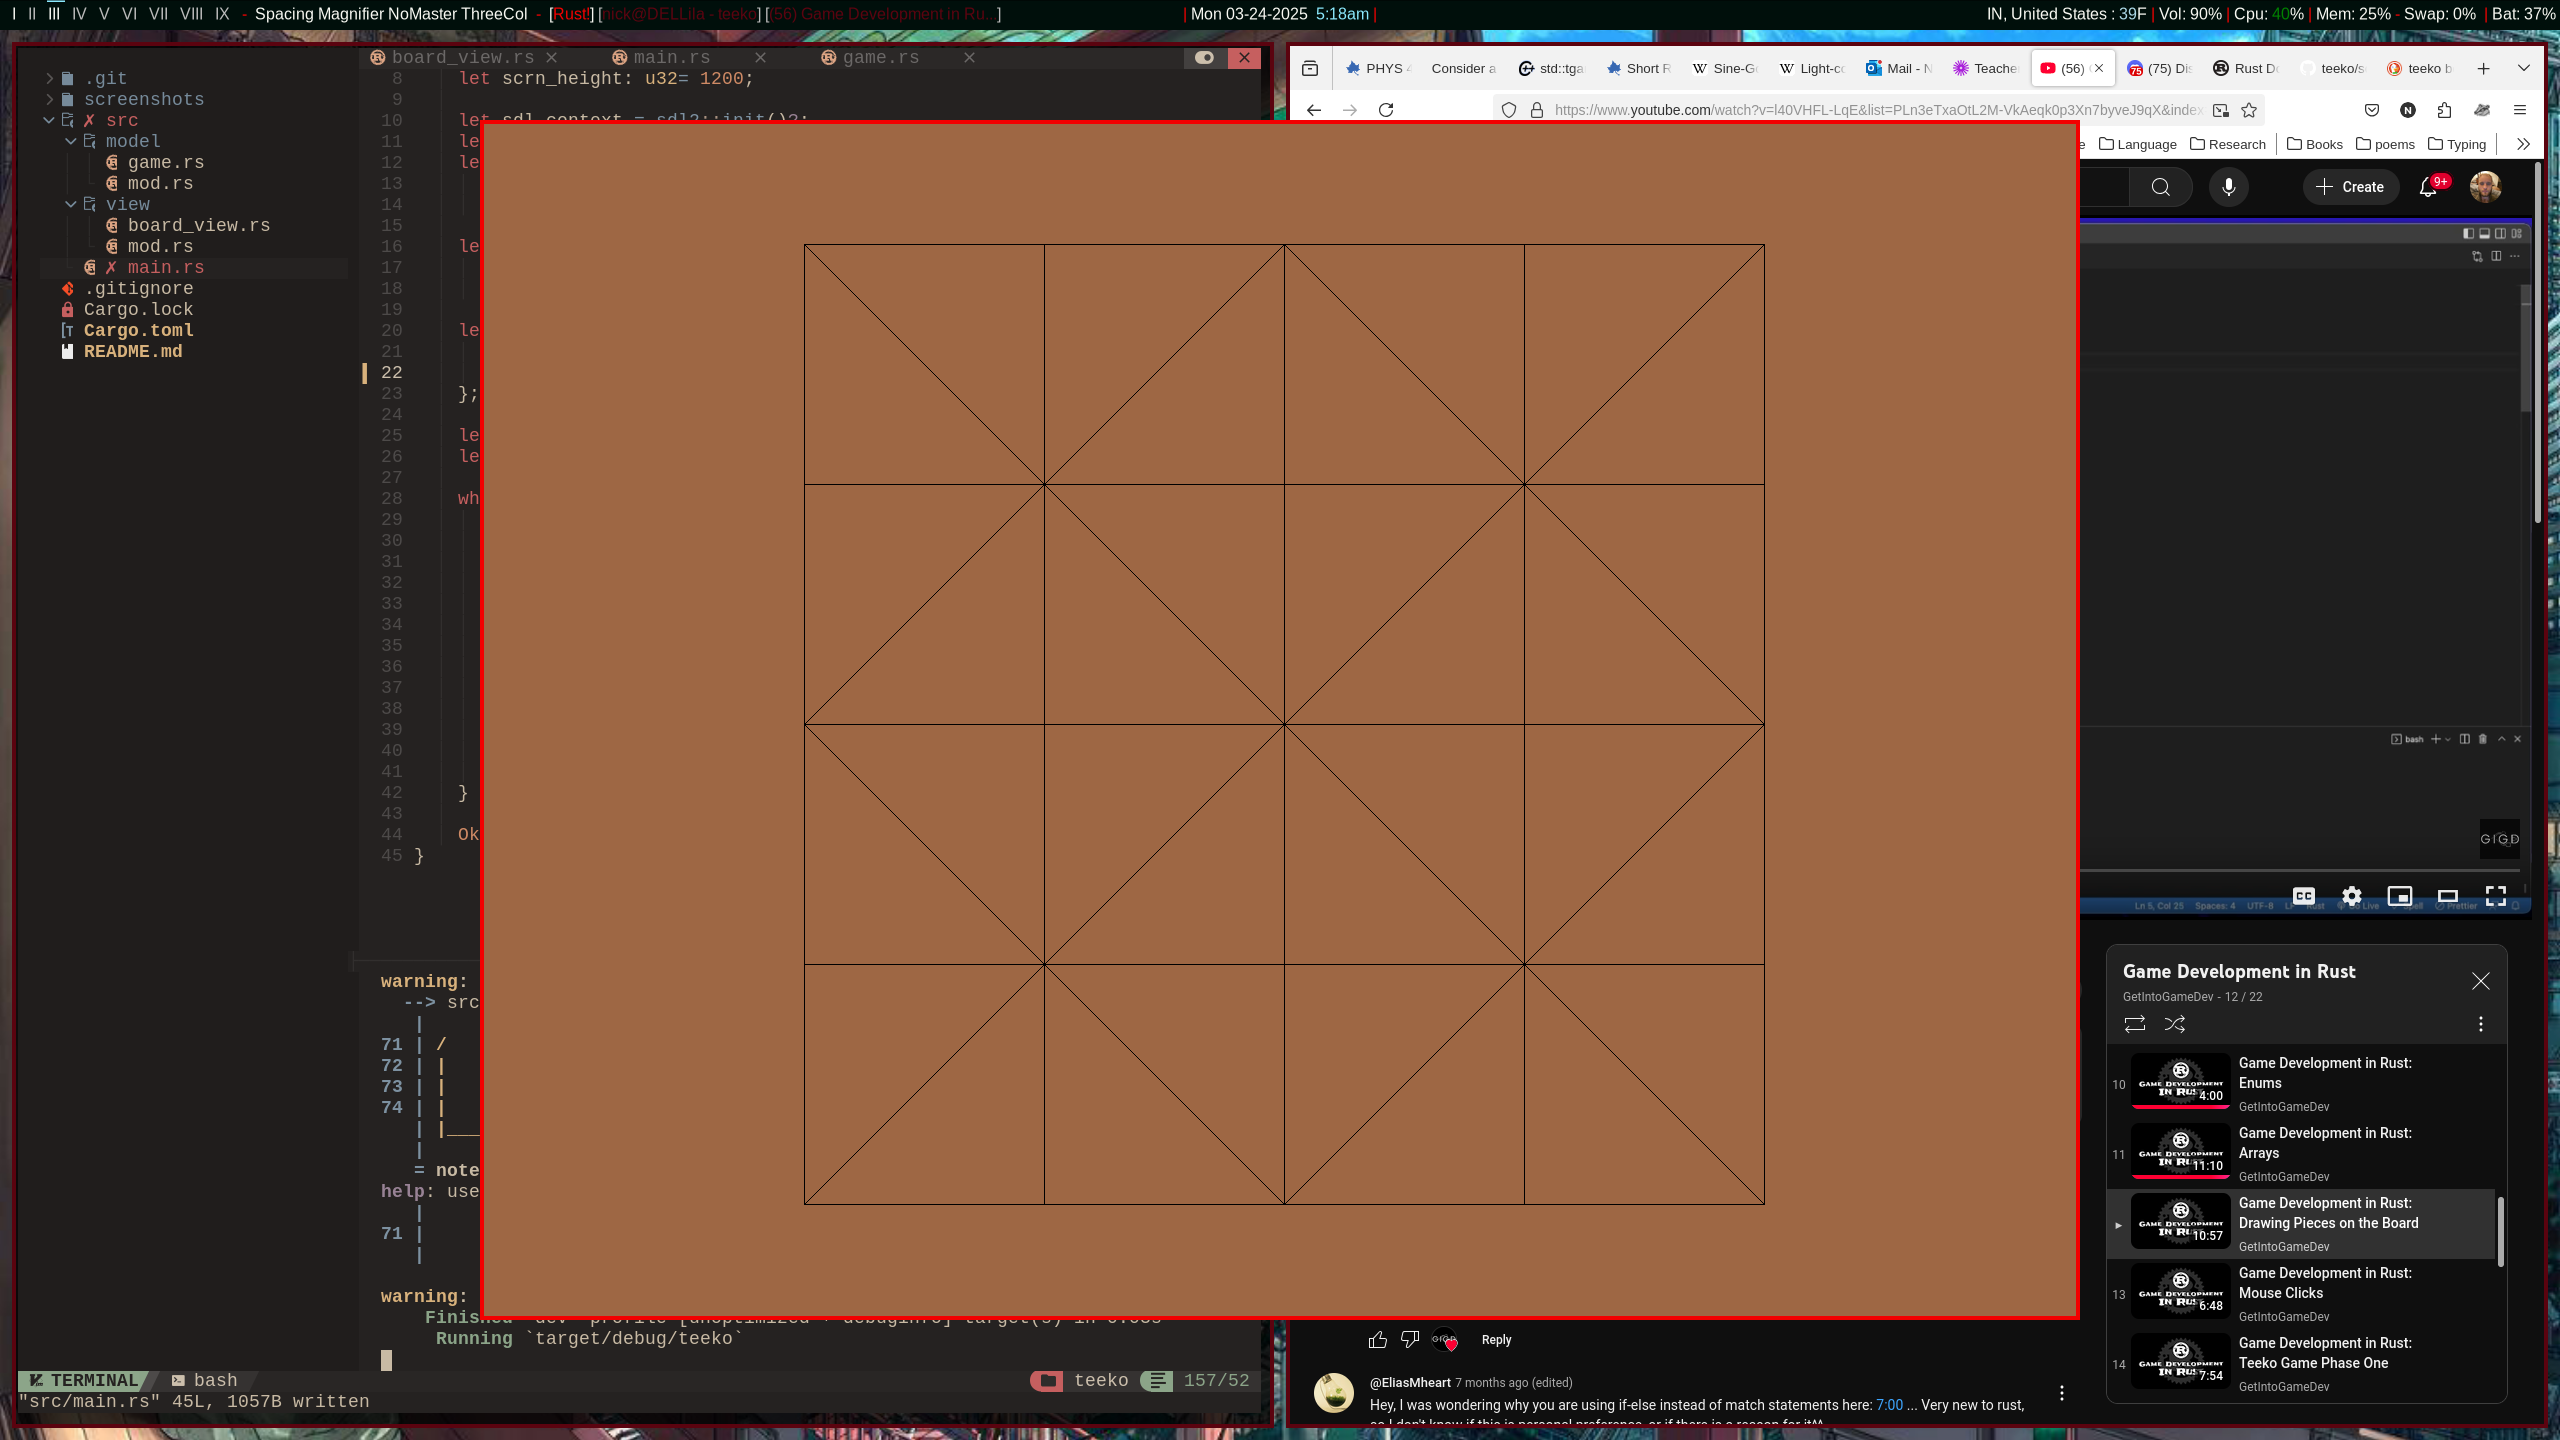
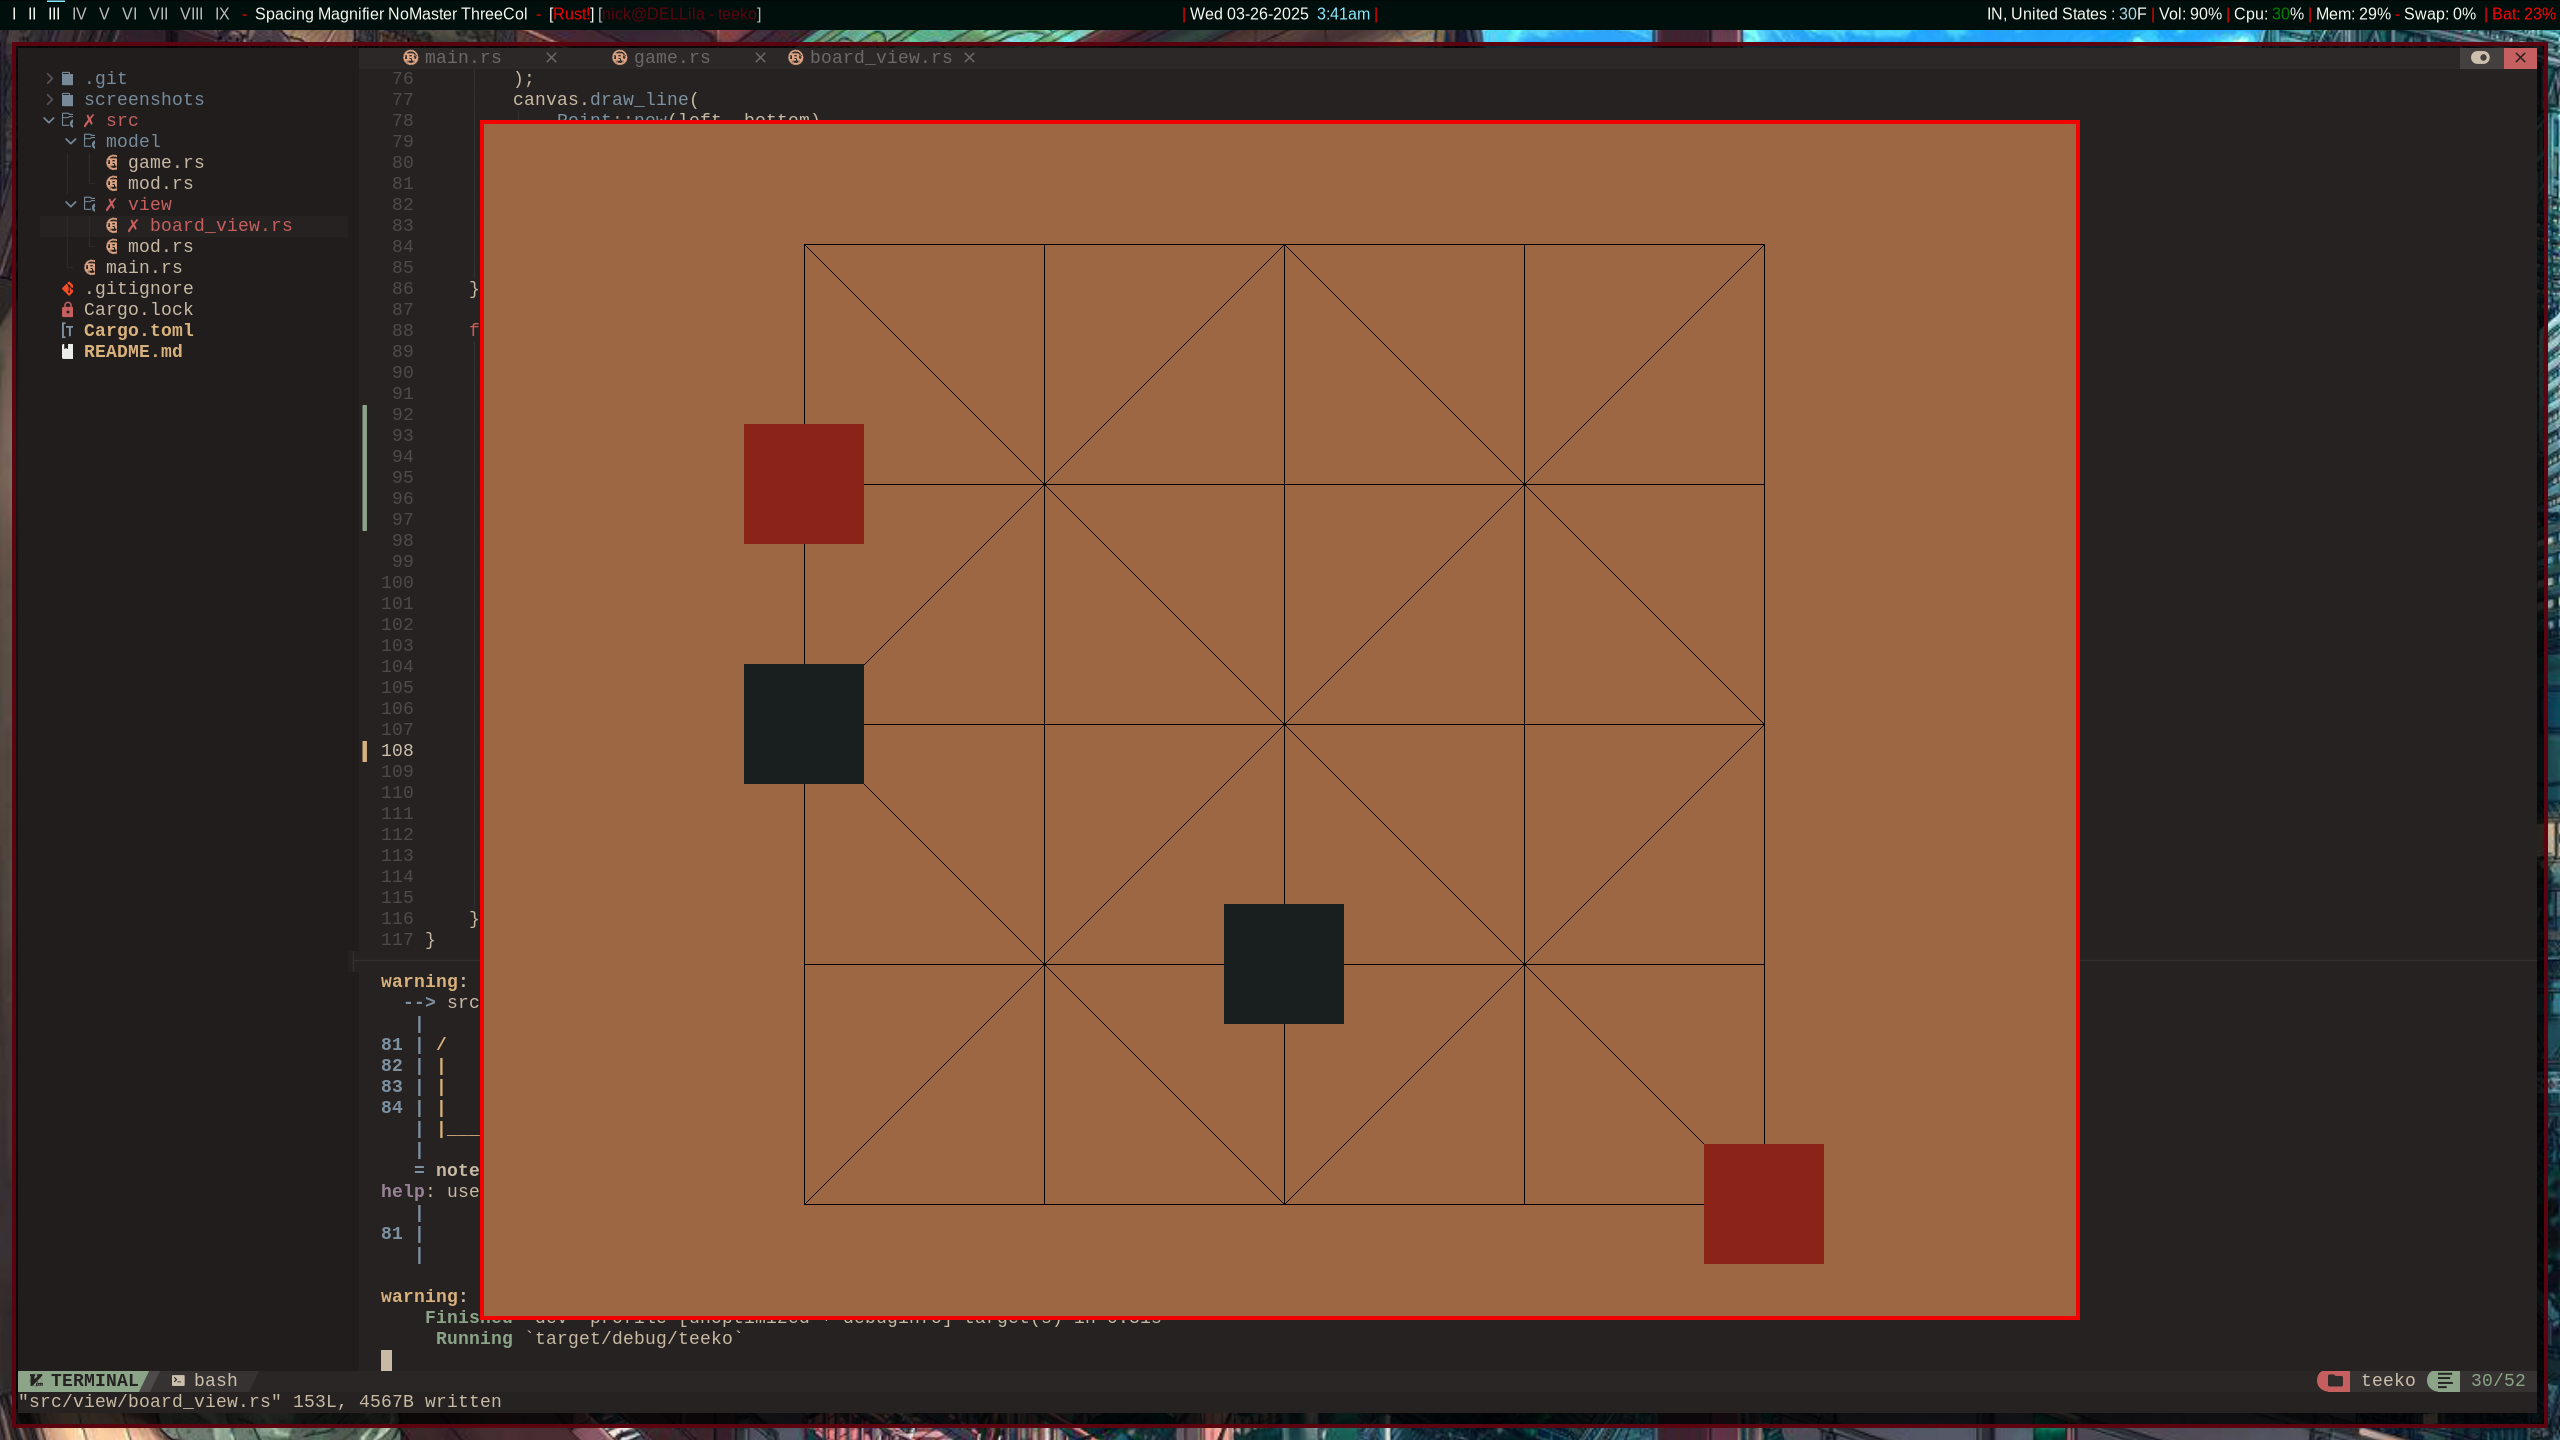
Corrected position calculation since my board is drawn differently than the tutorial does

diff --git a/src/view/board_view.rs b/src/view/board_view.rs
@@ -89,6 +89,12 @@ impl Renderer {
 
         let width: i32 = self.scrn_area.h / 5;
         let height: i32 = self.scrn_area.h / 5;
+        // Board width: (4 spaces between 5 lines)x(Cell width)
+        // Centering of board involves halving the board width which is a factor of 4.
+        // So simplify to 2xCell width (and similarly for height)
+        let left: i32 = self.scrn_area.w/2 - 2*width; // x-position of left side of centered board
+        let top: i32 = self.scrn_area.h/2 - 2*height; // y-position of top side of centered board
+
 
         for i in 0i32..5 {
             let row: usize = i.try_into().unwrap();
@@ -99,7 +105,7 @@ impl Renderer {
                     if board[row][col] == BoardPiece::Red {
                         c = Color::RGB(140, 35, 25);
                     }
-                    let rect = Rect::new(width/4 + width*(j+1), height/4 + height*i, 
+                    let rect = Rect::new(left - width/4 + width*j, top - height/4 + height*i, 
                             (width/2).try_into().unwrap(), (height/2).try_into().unwrap());
                     canvas.set_draw_color(c);
                     canvas.fill_rect(rect).ok().unwrap_or_default();
